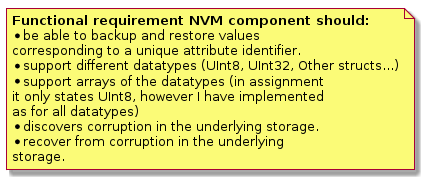
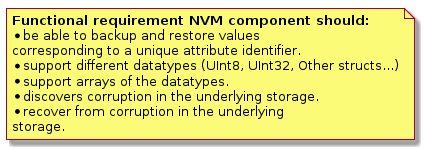
doc: updated future impovement

Changed region(s): [[0.0, 0.0267, 1.0, 0.96]]

diff --git a/doc/design.md b/doc/design.md
@@ -6,9 +6,7 @@ note as N1
 * be able to backup and restore values
 corresponding to a unique attribute identifier.
 * support different datatypes (UInt8, UInt32, Other structs...)
-* support arrays of the datatypes (in assignment
-it only states UInt8, however I have implemented
-as for all datatypes)
+* support arrays of the datatypes.
 * discovers corruption in the underlying storage.
 * recover from corruption in the underlying
 storage.
@@ -133,12 +131,17 @@ note as N1
 	* The init, getter and setter will be Mutex locked to prevent
 	access to the same data at the same time by different
 	threads. This will prevent data corruption.
-	* At this moment we the nvm component is tested on a
+	* At this moment the nvm component is tested on a
 	semi unit-test/integration test level. In the future
 	these levels should be split up into a unit-test level tests
 	(Sported by gtest and gmock) and integration level tests
 	using a underlying file structure to emulate non-volatile
 	memory storage.
+	* After after many Sets, Get and Deletes the attributes will be
+	fragmented over the nvm. It is then possible that the nvm is
+	full while there is space between the attributes. To cope with this
+	an de-fegmentation action needs to be preformed. Free space is filled
+	with attributes that can fit in them.   
 end note
 
 @enduml
